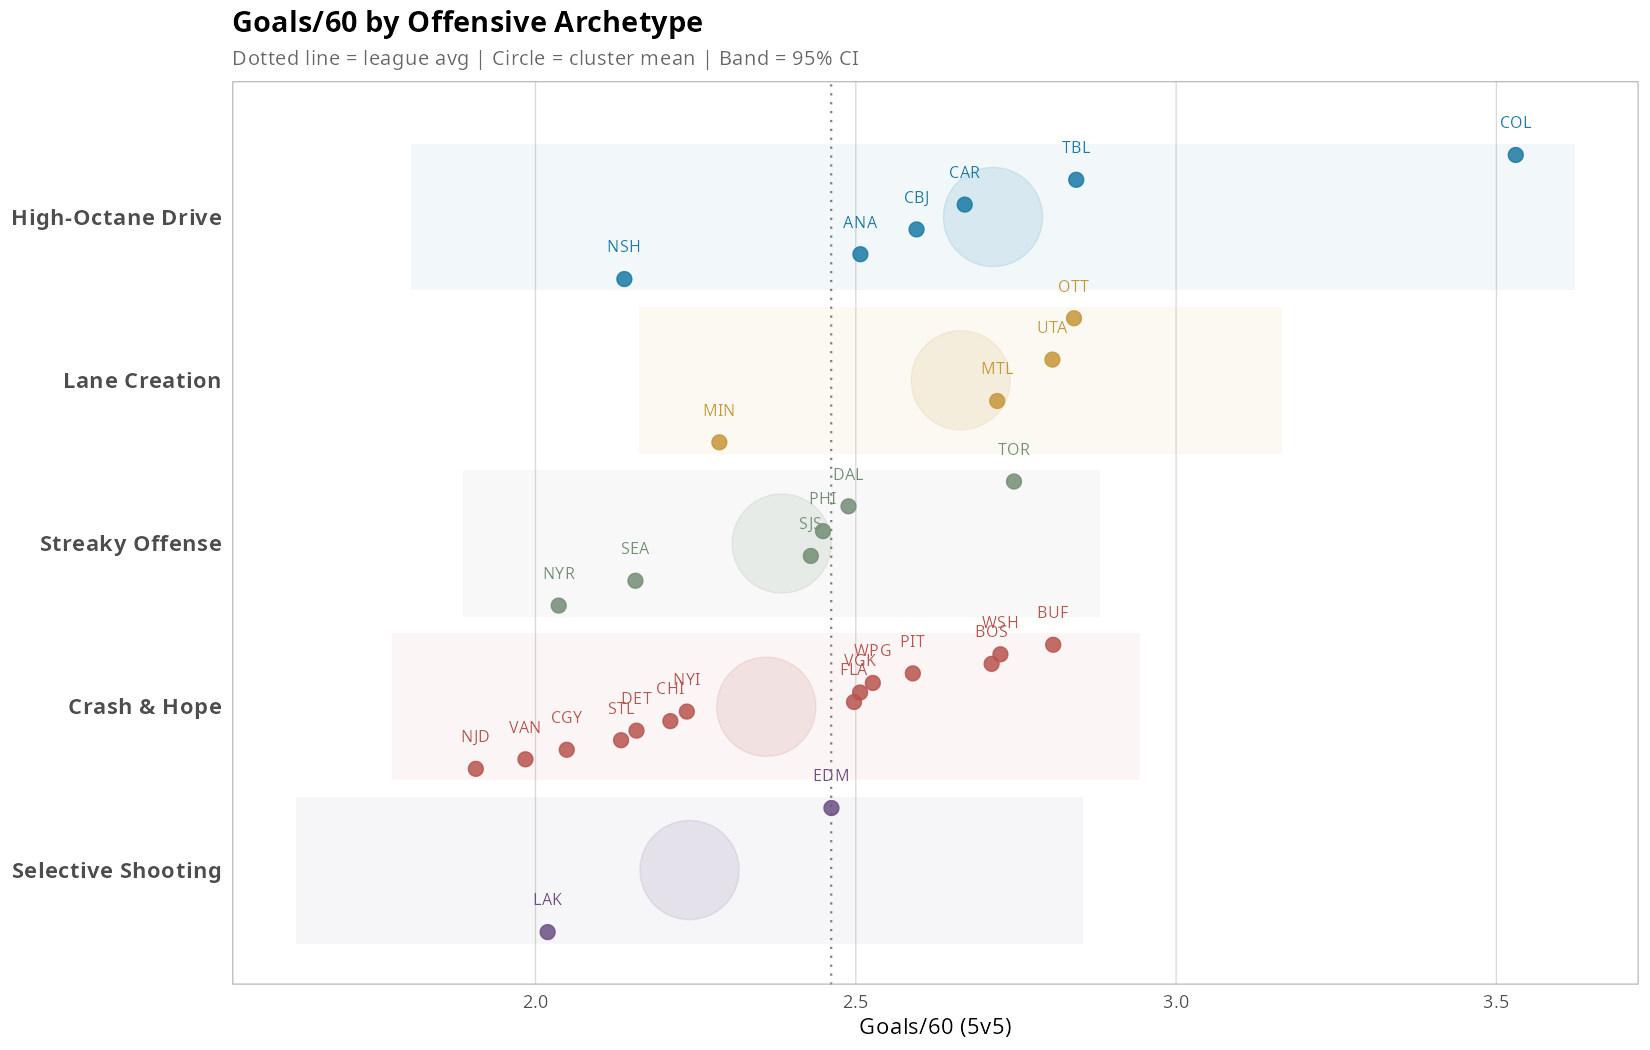
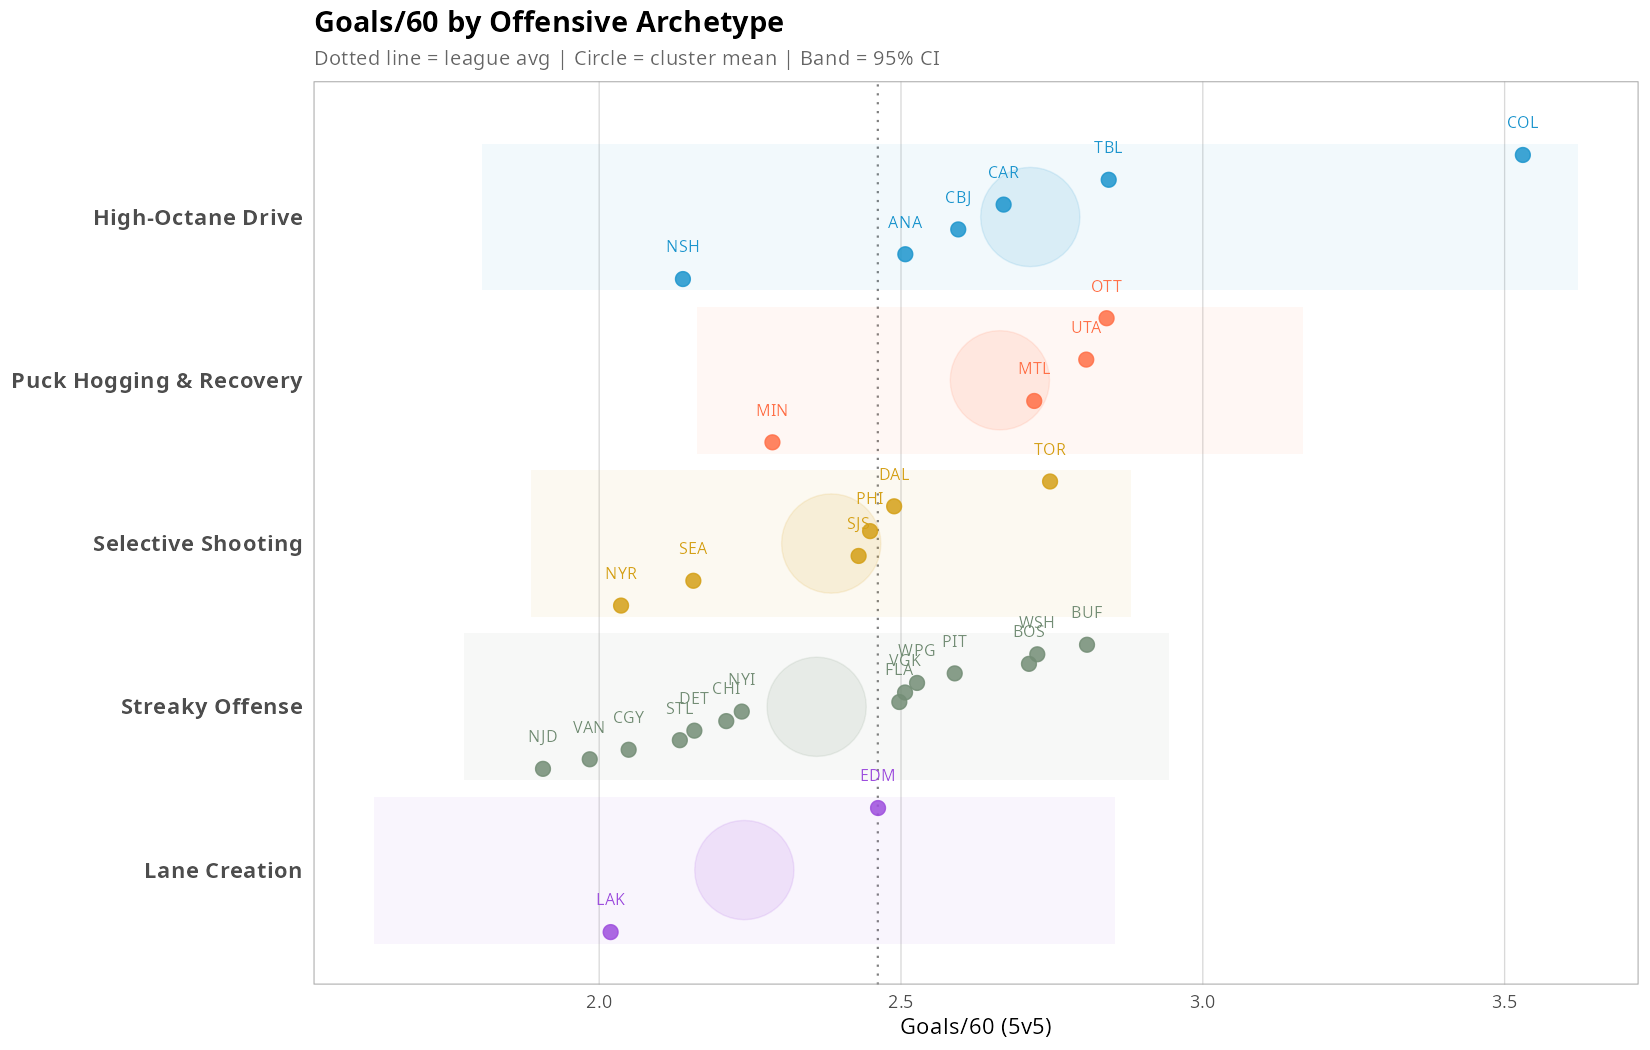
figure 5 and figure 6 done

diff --git a/README.md b/README.md
@@ -95,16 +95,13 @@ We start with k=6. Below, the dendrogram paired with a heatmap of dimension scor
 
 ![Team profiles by cluster](outputs/figures/figure5_teams_by_cluster.png)
 
-[Interprétation rapide]
-
-| Cluster | Name | Style Signature | Example Teams |
+| Cluster | Archetype Name | Style | Example Teams |
 |---------|------|-----------------|---------------|
-| **1** | Crash & Hope | High volume + rebounds, poor finishing | CBJ, CHI, MIN, NSH, UTA, VAN |
-| **2** | High-Octane Drive | Extreme volume + rebounds, tempo-driven | ANA, CAR, COL, TBL |
-| **3** | Streaky Offense | Average everywhere, performance driven by finishing | BOS, DET, NJD, PIT... (12 teams) |
-| **4** | Selective Shooting | Low volume, elite shot quality, efficient | DAL, PHI, SEA, SJS, TOR |
-| **5** | Lane Creation | Exceptional penetration, creates high-quality lanes | EDM, LAK, NYR |
-| **6** | Puck Hog & Finish | Elite recovery + above-expected finishing | MTL, OTT |
+| **1** | Streaky Offense | Average everywhere, finishing-dependent (volatile) | BOS, BUF, CGY, DET... (14 teams) |
+| **2** | High-Octane Drive | Fast tempo, drive the net, lots of rebounds | ANA, CAR, COL, NSH, TBL |
+| **3** | Selective Shooting | Low volume but above-average quality | DAL, NYR, PHI, SEA, SJS, TOR |
+| **4** | Lane Creation | Create quality shooting lanes | EDM, LAK |
+| **5** | Puck Hogging & Recovery | Aggressive puck control, keep possession | MIN, MTL, OTT, UTA |
 
 ## [What Drives Success? trouver un titre clair pour cette section]
 
